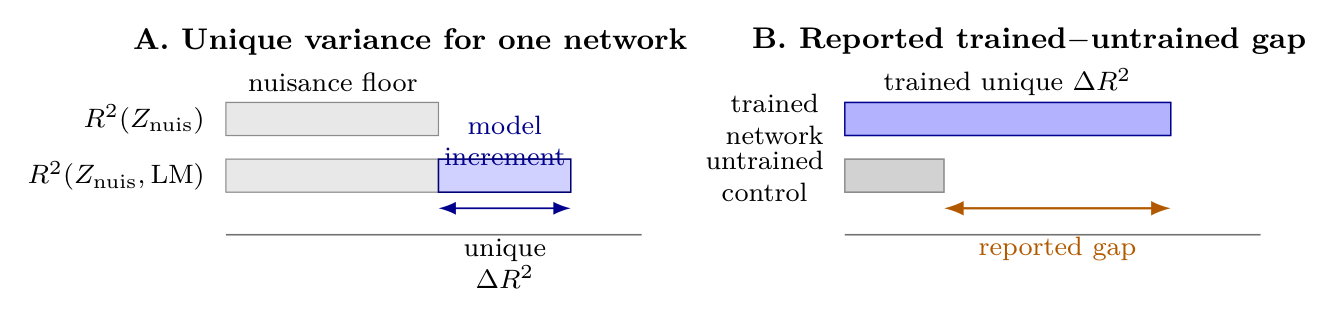
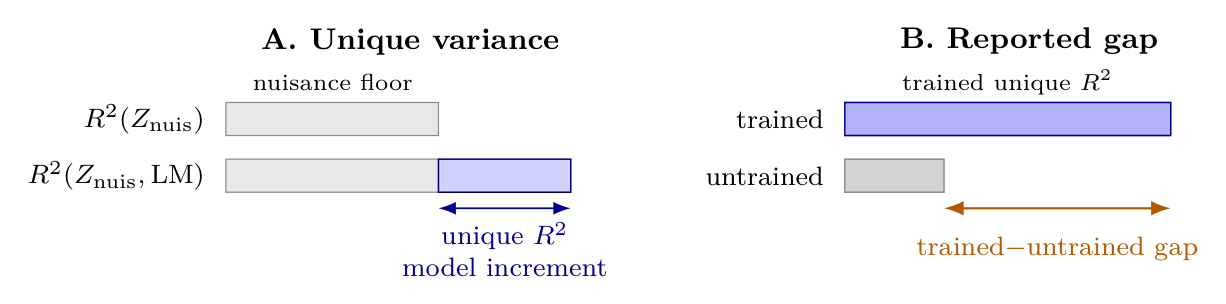
docs(manuscript): clarify unique variance figure

diff --git a/docs/manuscript/extended/sections/03_methods.tex b/docs/manuscript/extended/sections/03_methods.tex
@@ -120,7 +120,7 @@ The gap therefore estimates what \emph{language training} adds over random initi
 \begin{figure}[t]
   \centering
   \resizebox{0.98\textwidth}{!}{\input{../figures/fig03_unique_variance.tikz}}
-  \caption{Schematic of the two computed quantities. Unique variance is the held-out $R^2$ increment from adding LM features to the nuisance model. The reported gap is $\Delta R^2_{\mathrm{trained}}-\Delta R^2_{\mathrm{untrained}}$, with both arms scored using the same nuisance set and splits. Bar lengths are illustrative.}
+  \caption{Schematic of the two computed quantities. Unique variance is the held-out $R^2$ increment from adding LM features to the nuisance model. The reported gap is $\uniqueR_{\mathrm{trained}}-\uniqueR_{\mathrm{untrained}}$, with both arms scored using the same nuisance set and splits. Bar lengths are illustrative.}
   \label{fig:uniquevar}
 \end{figure}
 
